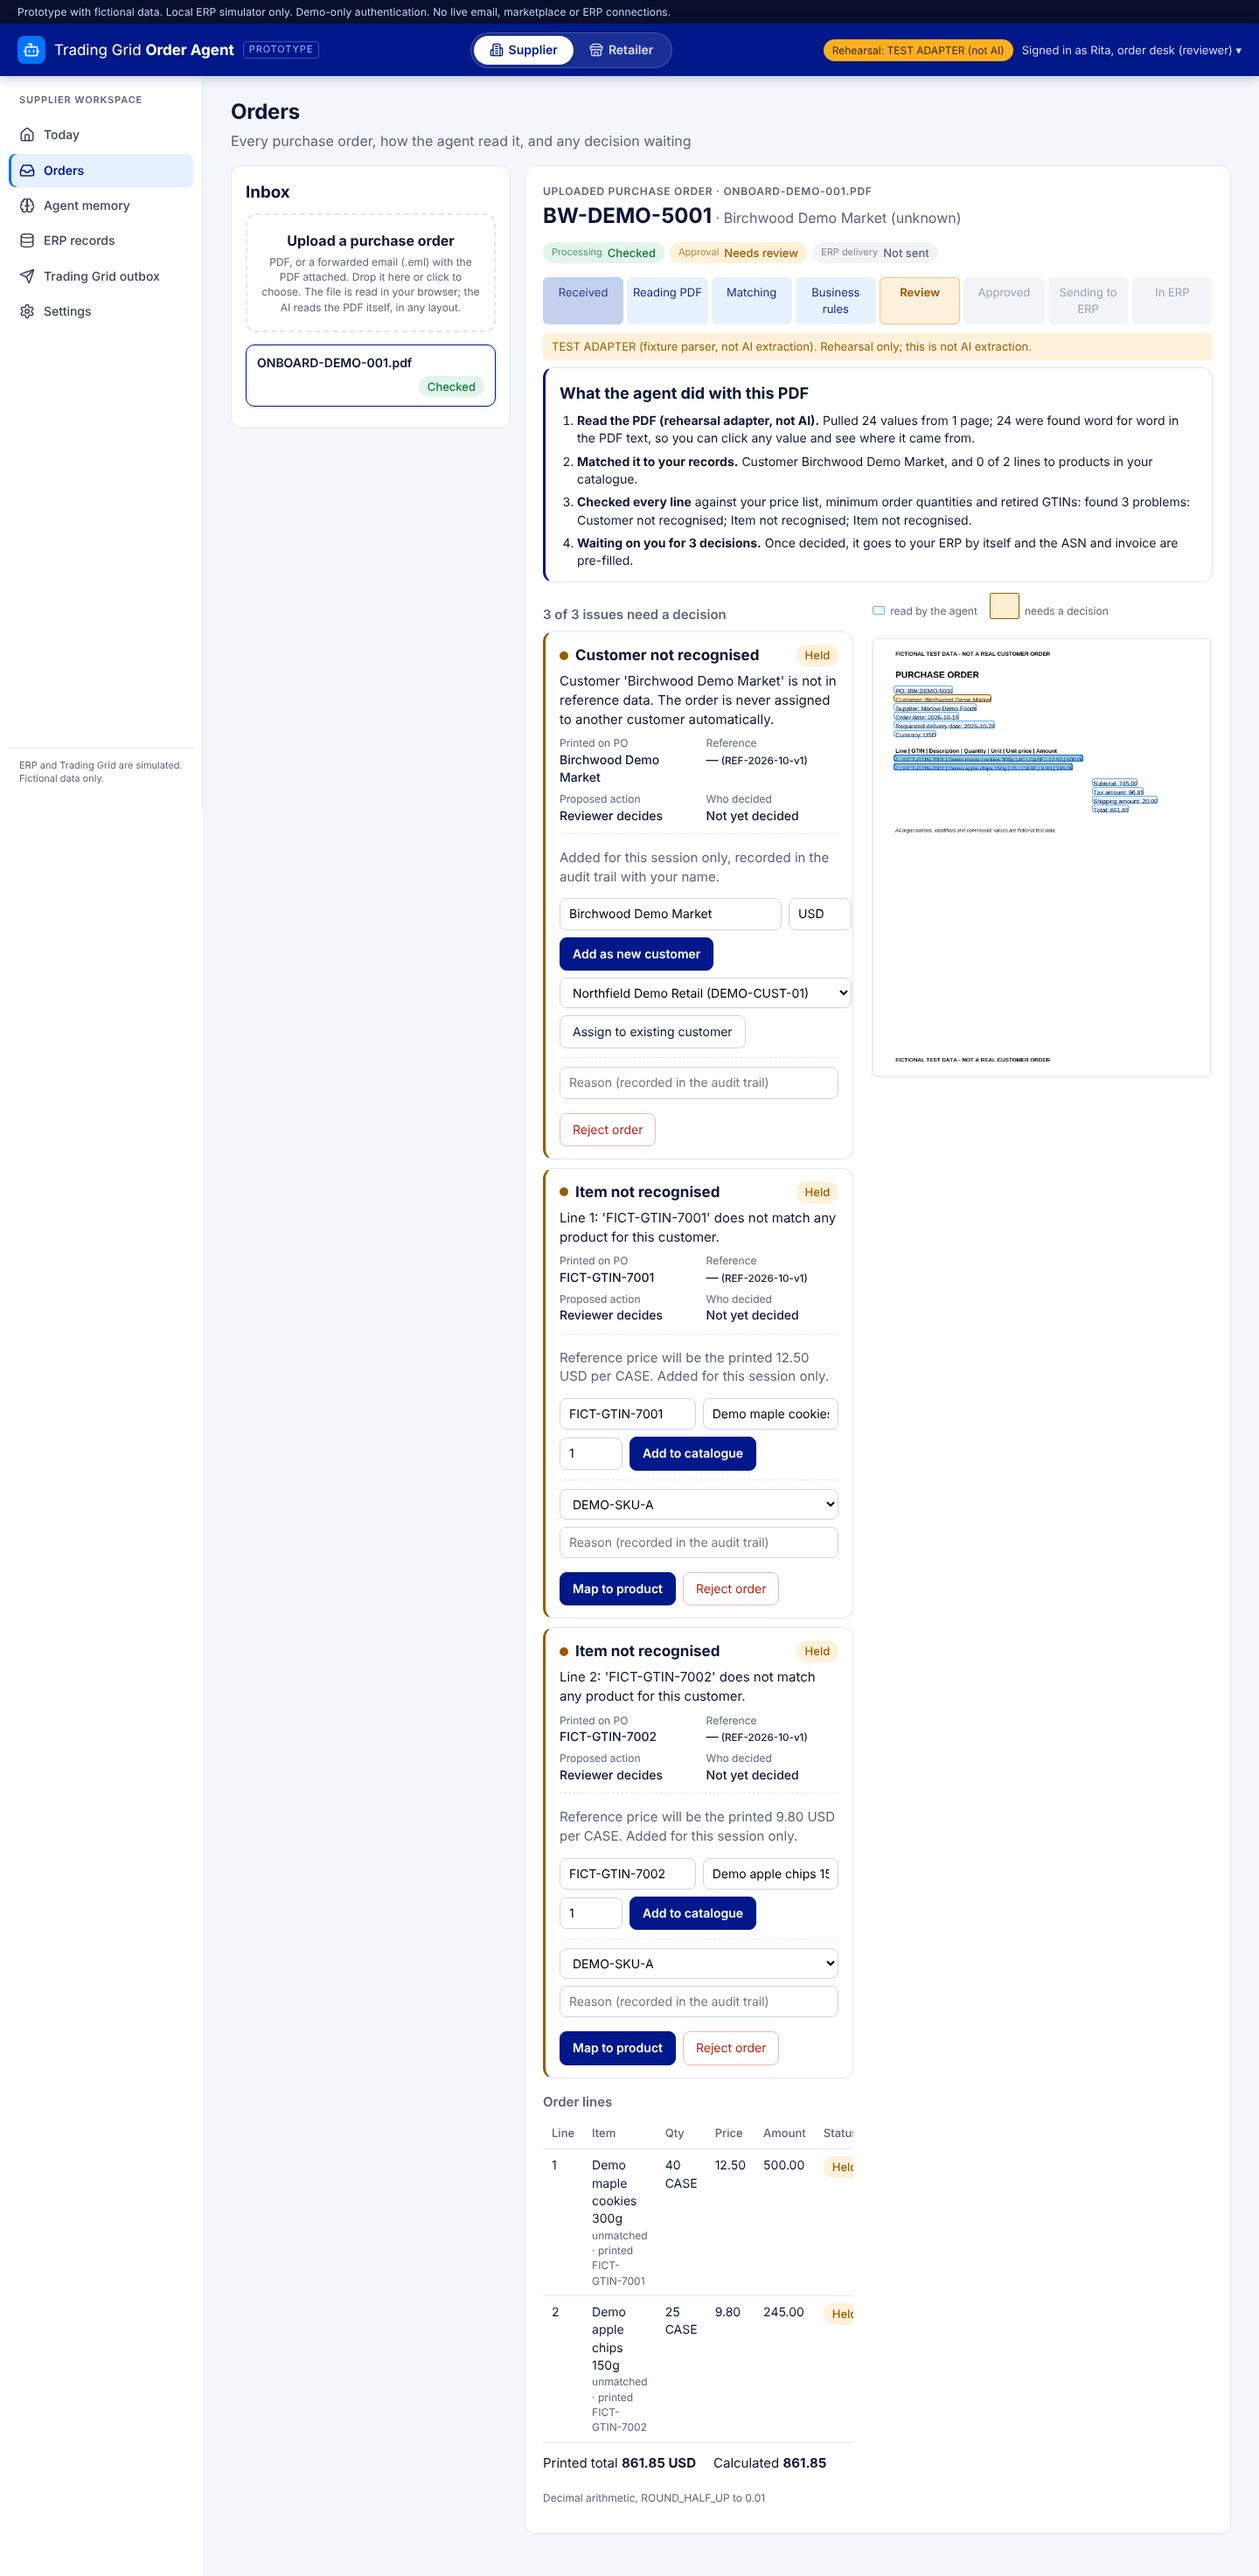
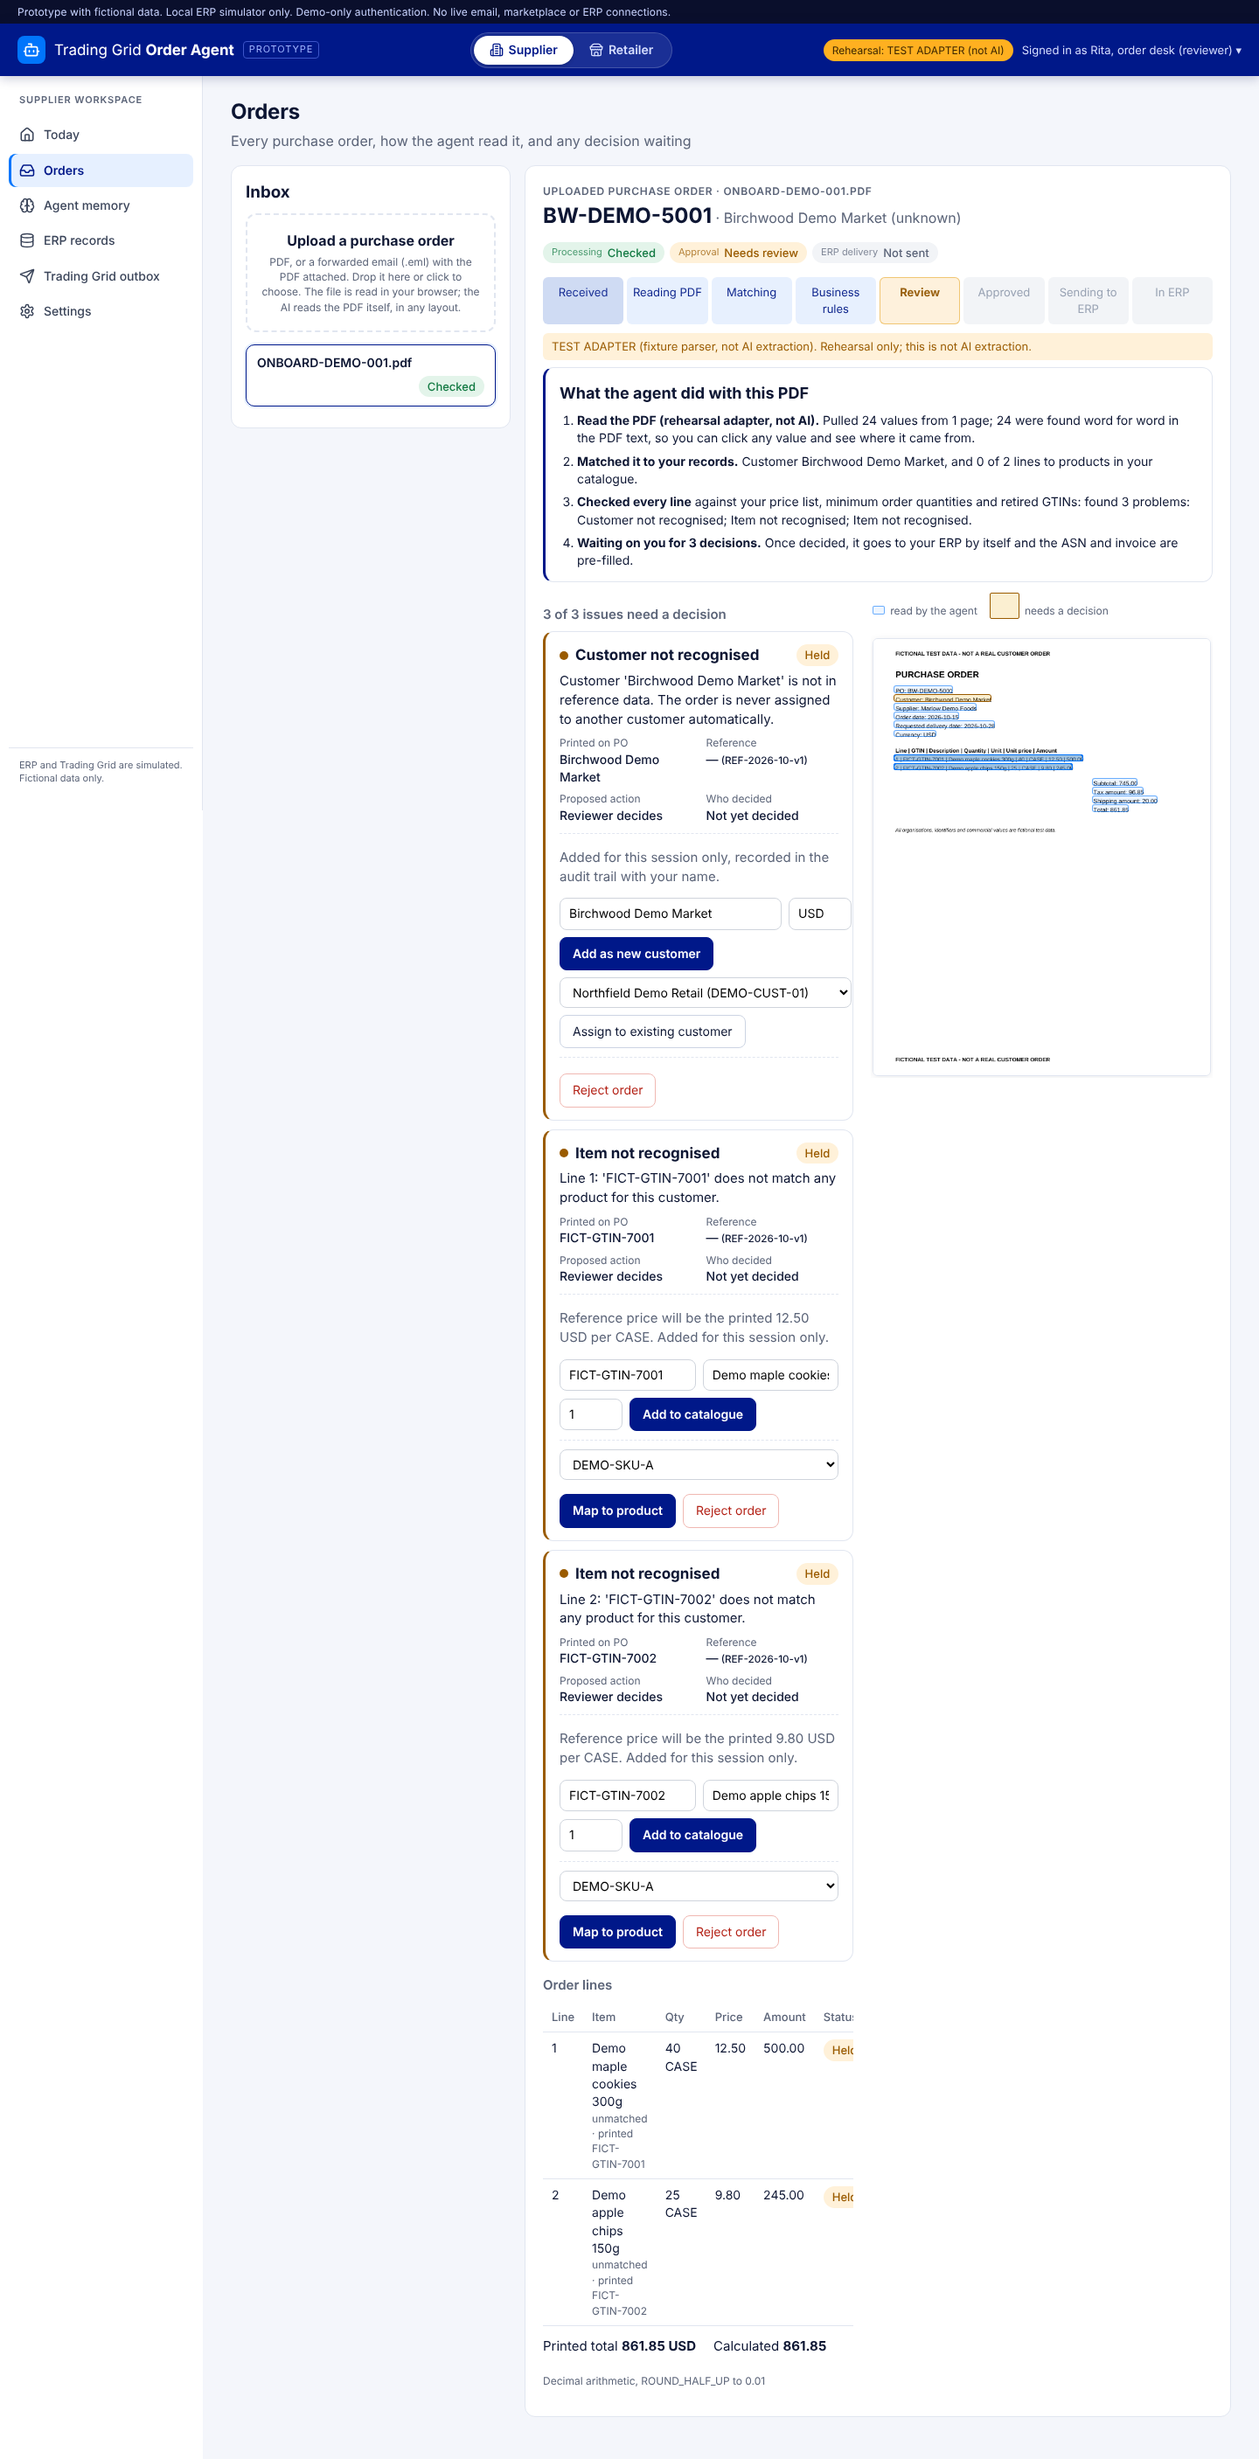
Read amounts printed with their currency; drop the reason field for rejecting an order
Claude-Session: https://claude.ai/code/session_015rHubScW5QEW4AioSFAfuF

diff --git a/frontend/app/OrderView.tsx b/frontend/app/OrderView.tsx
@@ -224,7 +224,9 @@ function IssueCard({ issue, onAct, role, focused, onFocus, onRun, docId, line, c
           {issue.actions.includes("apply_mapping") && (
             <label className="check"><input type="checkbox" checked={save} onChange={(e) => setSave(e.target.checked)} /> Save for future matching orders (needs administrator activation)</label>
           )}
-          <input aria-label="Reason" placeholder="Reason (recorded in the audit trail)" value={reason} onChange={(e) => setReason(e.target.value)} />
+          {issue.actions.some((a) => a !== "reject_order" && a !== "apply_mapping" && a !== "map_item") && (
+            <input aria-label="Reason" placeholder="Reason (recorded in the audit trail)" value={reason} onChange={(e) => setReason(e.target.value)} />
+          )}
           <div className="btns">
             {issue.actions.map((a) => (
               <button key={a} disabled={busy} className={a === "reject_order" ? "ghost danger" : "primary"} onClick={() => run(a)}>

diff --git a/frontend/lib/domain/normalise.ts b/frontend/lib/domain/normalise.ts
@@ -1,6 +1,6 @@
 // Port of extraction.py normalise(): turns any extractor's raw result into the fixed payload shape and
 // checks every value against the PDF text (D14). Document text is untrusted data throughout.
-import { Dec, PY_WHITESPACE_RUN, pyStrip } from "./money";
+import { PY_WHITESPACE_RUN, dec, pyStrip } from "./money";
 import { type ExtractionPayload, type OrderTerms, termFields } from "./run-state";
 
 export const HEADER_FIELDS = ["customer_name", "customer_id", "supplier", "po_number", "ship_to_id", "order_date",
@@ -47,7 +47,7 @@ function normaliseField(name: string, rawIn: unknown, pages: string[]): Field {
       page = i >= 0 ? i + 1 : null;
     }
   }
-  if (NUMERIC_FIELDS.has(name) && value !== null && Dec.parse(value.replace(/,/g, "")) === null) {
+  if (NUMERIC_FIELDS.has(name) && value !== null && dec(value) === null) {
     notes.push("not a valid decimal number");
   }
   return { value, page, evidence, evidence_verified: verified, notes };

diff --git a/frontend/lib/domain/workflow.ts b/frontend/lib/domain/workflow.ts
@@ -18,7 +18,7 @@ export const SYSTEM = "system:order-agent";
 const REVIEWER_ROLES = new Set(["reviewer", "administrator"]);
 const LINE_EDIT_ACTIONS = new Set(["change_quantity", "correct_price"]);
 const REASON_REQUIRED = new Set(["one_off_exception", "accept_printed_price", "acknowledge_total_difference",
-  "confirm_field", "accept_as_revision", "reject_order", "change_quantity", "correct_price"]);
+  "confirm_field", "accept_as_revision", "change_quantity", "correct_price"]);
 
 /** Who acts: the demo role and the actor label "<role>:<name>" (D22, demo-only). */
 export interface Who { actor: string; role: string }

diff --git a/frontend/lib/domain/money.ts b/frontend/lib/domain/money.ts
@@ -169,7 +169,8 @@ export class Dec {
  *  (Python would keep them and then fail later; see DECISIONS.md D33). */
 export function dec(value: string | null | undefined): Dec | null {
   if (value === null || value === undefined || value === "") return null;
-  const d = Dec.parse(value.replace(/,/g, ""));
+  // Amounts printed with their currency ("USD 18.50", "$18.50", "18.50 USD") are the same number (D59).
+  const d = Dec.parse(value.replace(/,/g, "").replace(/^\s*(?:USD|US\$|\$)\s*/i, "").replace(/\s*USD\s*$/i, ""));
   return d instanceof Dec ? d : null;
 }
 

diff --git a/frontend/lib/domain/example-po.test.ts b/frontend/lib/domain/example-po.test.ts
@@ -27,3 +27,13 @@ describe("the example purchase order", () => {
     expect(v.issues.filter((i: { blocking: boolean }) => i.blocking)).toEqual([]);
   });
 });
+
+describe("amounts printed with their currency", () => {
+  it("reads USD 18.50, $18.50 and 2,220.00 USD as numbers", async () => {
+    const { dec } = await import("./money");
+    expect(dec("USD 18.50")?.toString()).toBe("18.50");
+    expect(dec("$18.50")?.toString()).toBe("18.50");
+    expect(dec("2,220.00 USD")?.toString()).toBe("2220.00");
+    expect(dec("EUR 5")).toBeNull();
+  });
+});
